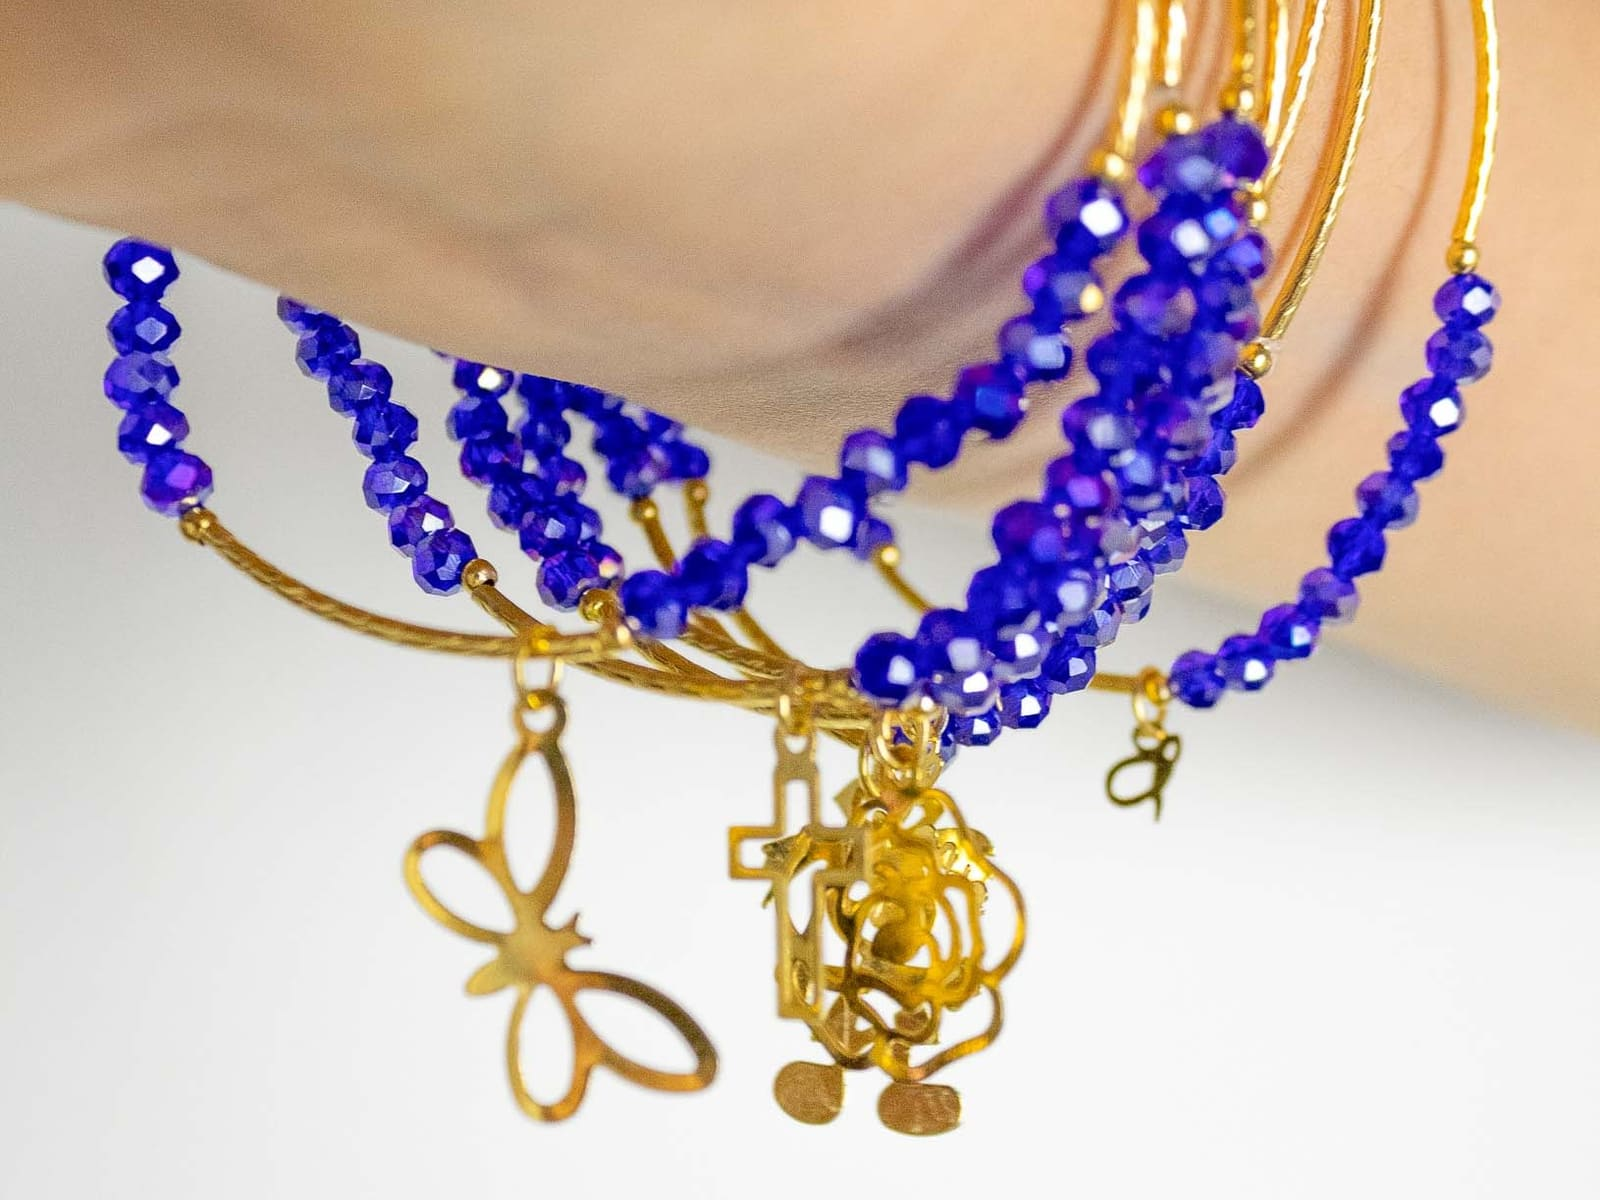
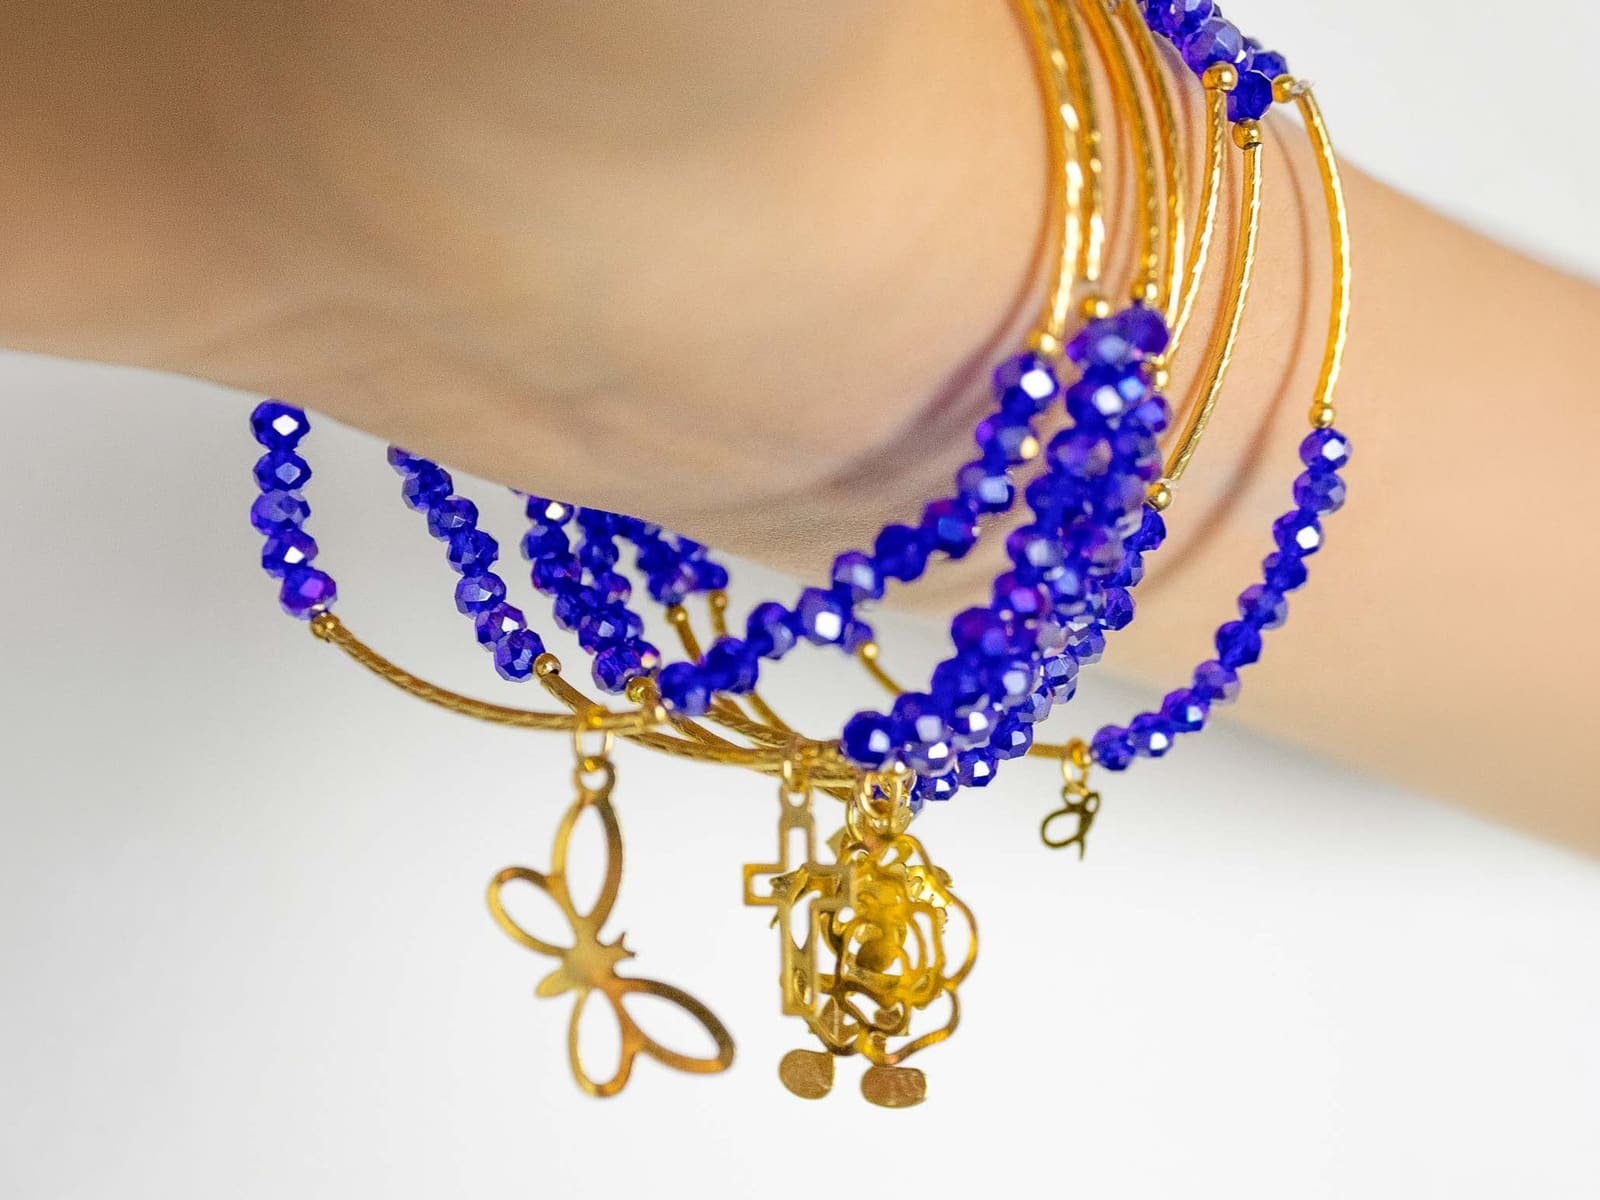
Minturina: pulseras en horizontal y estampados antes de la paleta
Las pulseras usan ya la versión horizontal (2104 × 1550); solo se
ajusta el 2 % de ancho que la separaba del 4:3 exacto de la caja, que
no se nota.

Los estampados suben: van antes de la paleta y las tipografías.

LAS MANOS SIGUEN IGUAL. El archivo que dice "Horizontal" es una copia
idéntica del vertical —mismo MD5, mismos 3456 × 5184—, así que el
encuadre ancho se sigue haciendo aquí, a 16:9 centrado al 46 %.

La herramienta ahora recorta también a lo ancho cuando la foto llega
más ancha que la caja, no solo a lo alto. El ORDEN.txt queda al día
con las dos cosas.

diff --git a/lib/content.ts b/lib/content.ts
@@ -688,19 +688,19 @@ export const PIEZAS: Pieza[] = [
         ],
       },
       {
-        tipo: "cuadricula",
-        imagenes: [
-          { w: 1504, h: 1507, src: "/trabajo/minturina-identidad/galeria/07-colores.jpg", pie: "Paleta con sus valores" },
-          { w: 1504, h: 1507, src: "/trabajo/minturina-identidad/galeria/08-tipografias.jpg", pie: "Voga y Open Sans" },
-        ],
-      },
-      {
         /* Enfrentados: es la comparación la que enseña el sistema,
            cada uno por su cuenta solo es un papel. */
         tipo: "cuadricula",
         imagenes: [
-          { w: 1711, h: 2000, src: "/trabajo/minturina-identidad/galeria/09-estampado-cyan.jpg", pie: "Estampado en cian" },
-          { w: 1711, h: 2000, src: "/trabajo/minturina-identidad/galeria/10-estampado-rosa.jpg", pie: "Estampado en rosa" },
+          { w: 1711, h: 2000, src: "/trabajo/minturina-identidad/galeria/07-estampado-cyan.jpg", pie: "Estampado en cian" },
+          { w: 1711, h: 2000, src: "/trabajo/minturina-identidad/galeria/08-estampado-rosa.jpg", pie: "Estampado en rosa" },
+        ],
+      },
+      {
+        tipo: "cuadricula",
+        imagenes: [
+          { w: 1504, h: 1507, src: "/trabajo/minturina-identidad/galeria/09-colores.jpg", pie: "Paleta con sus valores" },
+          { w: 1504, h: 1507, src: "/trabajo/minturina-identidad/galeria/10-tipografias.jpg", pie: "Voga y Open Sans" },
         ],
       },
       {
